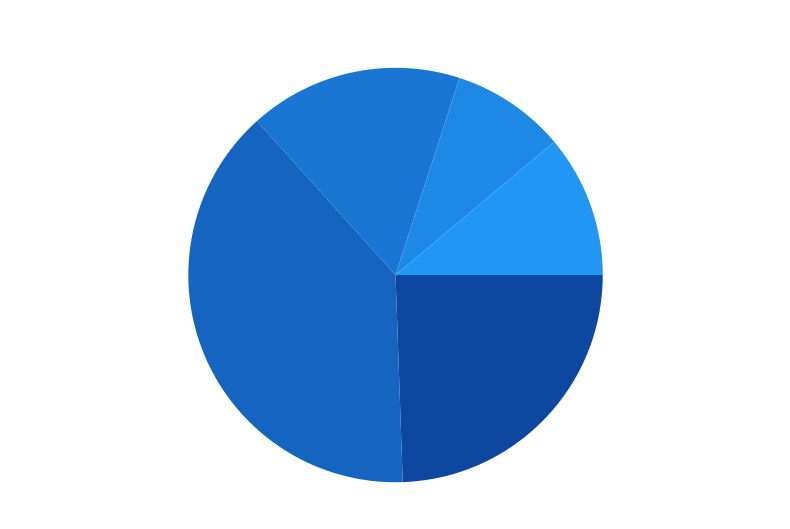
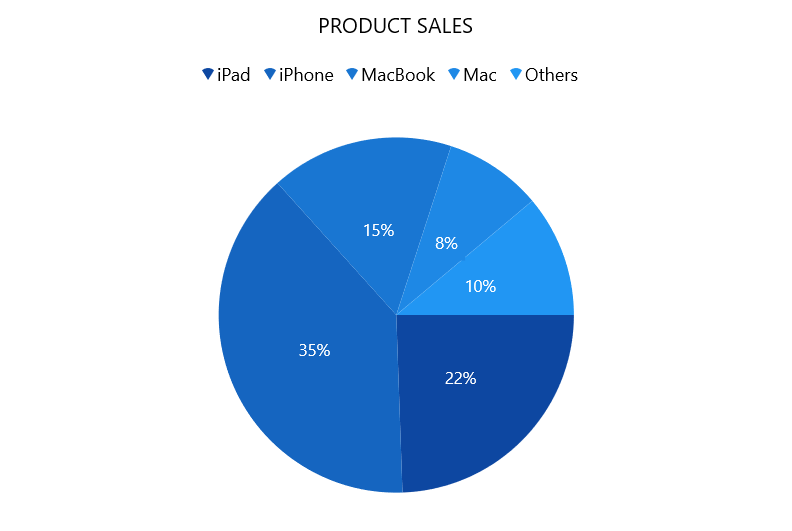
Circular chart Getting Started.md file

diff --git a/winui/Circular-Charts/Getting-Started.md b/winui/Circular-Charts/Getting-Started.md
@@ -156,13 +156,9 @@ ChartViewModel viewModel = new ChartViewModel();
 chart.DataContext = viewModel;
 
 PieSeries series = new PieSeries();
+series.SetBinding(PieSeries.ItemsSourceProperty, new Bindin() { Path = new PropertyPath("Data") });
 series.XBindingPath = "Product";
 series.YBindingPath = "SalesRate";
-
-series.SetBinding(
-    PieSeries.ItemsSourceProperty, 
-    new Binding() 
-    { Path = new PropertyPath("Data") });
 
 chart.Series.Add(series);
 . . .
@@ -170,8 +166,6 @@ chart.Series.Add(series);
 {% endhighlight %}
 
 {% endtabs %} 
-
-![Pie series at WinUI Circular Chart](Getting-Started_Images/WinUI_pie_chart.png)
 
 ## Add Title
 
@@ -196,8 +190,6 @@ chart.Header = "PRODUCT SALES";
 {% endhighlight %}
 
 {% endtabs %}  
-
-![Header in WinUI Circular Chart](Getting-Started_Images/WinUI_pie_chart_header.png)
 
 ## Enable Data Labels
 
@@ -227,9 +219,7 @@ chart.Series.Add(series);
 
 {% endhighlight %}
 
-{% endtabs %}  
-
-![Data label in WinUI Circular Chart](Getting-Started_Images/WinUI_pie_chart_data_label.png)
+{% endtabs %} 
 
 ## Enable Legend
 
@@ -257,8 +247,6 @@ chart.Legend = new ChartLegend();
 {% endhighlight %}
 
 {% endtabs %} 
-
-![Legend in WinUI Circular Chart](Getting-Started_Images/WinUI_pie_chart_legend.png)
 
 ## Enable Tooltip
 
@@ -288,8 +276,6 @@ chart.Series.Add(series);
 
 {% endtabs %}
 
-![Tooltip in WinUI Circular Chart](Getting-Started_Images/WinUI_pie_chart_tooltip.png)
-
 The following code example gives you the complete code of above configurations.
 
 {% tabs %} 
@@ -304,12 +290,9 @@ The following code example gives you the complete code of above configurations.
         <chart:ChartLegend/>
     </chart:SfCircularChart.Legend>
     <chart:SfCircularChart.Series>
-        <chart:PieSeries ItemsSource="{Binding Data}" 
+        <chart:PieSeries ItemsSource="{Binding Data}" ShowDataLabels="True"
                          XBindingPath="Product" ShowTooltip="True"
                          YBindingPath="SalesRate">
-            <chart:PieSeries.DataLabelSettings>
-                <chart:CircularChartDataLabelSettings Visible="True"/>
-            </chart:PieSeries.DataLabelSettings>
         </chart:PieSeries>
     </chart:SfCircularChart.Series>
 </chart:SfCircularChart>
@@ -332,16 +315,11 @@ public sealed partial class MainWindow : Window
         chart.DataContext = viewModel;
 
         PieSeries series = new PieSeries();
+        series.SetBinding(PieSeries.ItemsSourceProperty, new Binding() { Path = new PropertyPath("Data") });
         series.XBindingPath = "Product";
         series.YBindingPath = "SalesRate";
         series.ShowTooltip = true;
-
-        series.DataLabelSettings = new CircularChartDataLabelSettings() { Visible = true };
-
-        series.SetBinding(
-            PieSeries.ItemsSourceProperty, 
-            new Binding() 
-            { Path = new PropertyPath("Data") });
+        series.ShowDataLabels = true;
 
         chart.Series.Add(series);
         this.Content = chart;
@@ -351,5 +329,7 @@ public sealed partial class MainWindow : Window
 {% endhighlight %}
 
 {% endtabs %}
+
+![Pie chart in WinUI Circular Chart](Getting-Started_Images/WinUI_pie_chart.png)
 
 N> Download demo application from [GitHub]()
